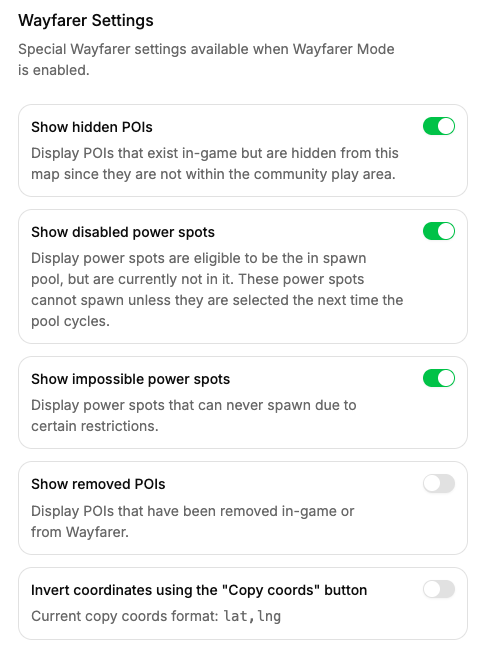
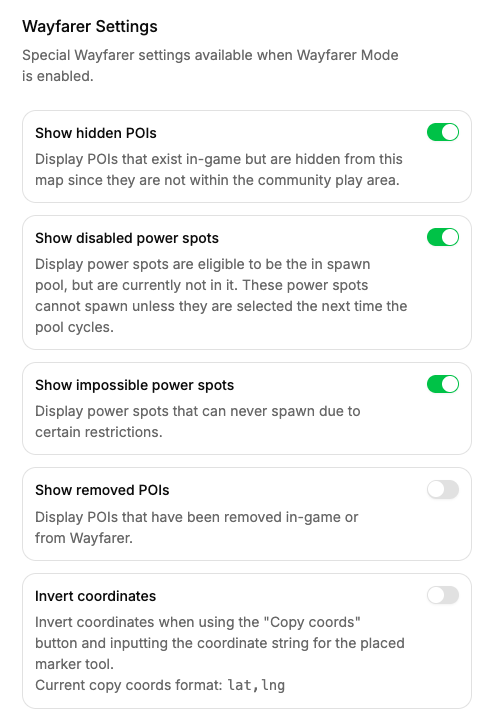
Add support for inverted coords for placed marker tool & update Wayfarer Tips doc

diff --git a/src/components/Tools/PlacedMarkerView.tsx b/src/components/Tools/PlacedMarkerView.tsx
@@ -25,16 +25,26 @@ interface FormData {
 
 /**
  * Parse the coordinate string into latitude and longitude values.
- * @param input
- * @returns
+ * @param coords Coordinate string
+ * @param invertCoords Interpret coords as inverted when true, i.e. lng,lat instead of lat,lng
+ * @returns An object containing the latitude and longitude values, or null if the input is invalid
  */
-const parseCoords = (input?: string) => {
-  if (input) {
-    const [lat, lng] = input
+const parseCoords = (coords?: string, invertCoords?: boolean) => {
+  if (coords) {
+    const vals = coords
       .trim()
       .split(",")
       .map((coord) => parseFloat(coord.trim()));
-    return { lat, lng };
+
+    if (vals.length !== 2) {
+      return null;
+    }
+
+    if (invertCoords) {
+      return { lat: vals[1], lng: vals[0] };
+    }
+
+    return { lat: vals[0], lng: vals[1] };
   }
 
   return null;
@@ -45,6 +55,7 @@ export default function PlacedMarkerView() {
   const activePopup = useStore((s) => s.activePopup);
   const addPlacedMarkerState = useStore((s) => s.addPlacedMarkerState);
   const coords = useStore((s) => s.coords);
+  const invertCoords = useStore((s) => s.invertCoords);
   const lat = useStore((s) => s.lat);
   const lng = useStore((s) => s.lng);
   const placedMarkerStates = useStore((s) => s.placedMarkerStates);
@@ -55,7 +66,7 @@ export default function PlacedMarkerView() {
 
   const removeIdQueryParam = useRemoveIdQueryParam();
   const setIdQueryParam = useSetIdQueryParam();
-  const { control, handleSubmit, setValue } = useForm<FormData>({
+  const { control, handleSubmit, register, setValue } = useForm<FormData>({
     defaultValues: {
       lat,
       lng,
@@ -128,7 +139,7 @@ export default function PlacedMarkerView() {
             </FieldLabel>
             <FieldDescription>
               Extract the latitude & longitude values from a string formatted as{" "}
-              <code>lat,lng</code>.
+              {invertCoords ? <code>lng,lat</code> : <code>lat,lng</code>}.
             </FieldDescription>
             <Input
               id="coords"
@@ -136,10 +147,9 @@ export default function PlacedMarkerView() {
               type="string"
               value={coords}
               onChange={(e) => {
-                console.log("fired", e.target.value);
                 setCoords(e.target.value);
 
-                const coordsResult = parseCoords(e.target.value);
+                const coordsResult = parseCoords(e.target.value, invertCoords);
 
                 if (coordsResult) {
                   setValue("lat", coordsResult.lat, {
@@ -170,6 +180,12 @@ export default function PlacedMarkerView() {
                   aria-invalid={invalid}
                   step="any"
                   type="number"
+                  {...register("lat", {
+                    valueAsNumber: true,
+                    validate: (value) =>
+                      Number.isFinite(value) ||
+                      "Latitude must be a valid number",
+                  })}
                   onChange={(e) => {
                     field.onChange(e);
                     setLat(parseFloat(e.target.value));
@@ -192,6 +208,12 @@ export default function PlacedMarkerView() {
                   aria-invalid={invalid}
                   step="any"
                   type="number"
+                  {...register("lng", {
+                    valueAsNumber: true,
+                    validate: (value) =>
+                      Number.isFinite(value) ||
+                      "Longitude must be a valid number",
+                  })}
                   onChange={(e) => {
                     field.onChange(e);
                     setLng(parseFloat(e.target.value));

diff --git a/src/components/SettingsView.tsx b/src/components/SettingsView.tsx
@@ -347,9 +347,12 @@ export default function SettingsView() {
                     htmlFor="invert-coords"
                     className="cursor-pointer"
                   >
-                    Invert coordinates using the "Copy coords" button
+                    Invert coordinates
                   </FieldLabel>
                   <FieldDescription className="text-pretty">
+                    Invert coordinates when using the "Copy coords" button and
+                    inputting the coordinate string for the placed marker tool.
+                    <br />
                     Current copy coords format:{" "}
                     {invertCoords ? <code>lng,lat</code> : <code>lat,lng</code>}
                   </FieldDescription>

diff --git a/src/components/hooks/store.ts b/src/components/hooks/store.ts
@@ -82,7 +82,7 @@ export interface StoreState {
   /** Disable all animations in the app when true. */
   disableAnimations: boolean;
 
-  /** Invert coordinates when copied and pasted together when true. */
+  /** Interpret coordinates as inverted when true, i.e. lng,lat instead of lat,lng. */
   invertCoords: boolean;
 
   /** Initial error message to display when the app first loads. */

diff --git a/docs/wayfarer-tips.md b/docs/wayfarer-tips.md
@@ -18,7 +18,11 @@ In the settings, you can enable **Wayfarer Mode** which gives you access to spec
 
 When enabled, the "Wayfarer Settings" section will appear in the settings screen.
 
-**We recommend enabling "Show hidden POIs" and "Show disabled power spots" to get a complete, one-to-one overview of the current map data.**
+**We recommend enabling the following to get a complete, one-to-one overview of the current map data:**
+
+- **Show hidden POIs**
+- **Show disabled power spots**
+- **Show impossible power spots**
 
 Additionally, you will gain access to the following features:
 
@@ -28,7 +32,7 @@ Additionally, you will gain access to the following features:
 - Show the no Power Spot zone for a specific POI which visualizes the 22m range in which Power Spots cannot be built around PokéStops & Gyms.
 - Show the no Community Ambassador POI zones which visualize the 30m range in which Community Campsite POIs cannot be built around other Wayfarer POIs.
 
-To demonstrate some of these features, here is what the popup looks like once Wayfarer Mode is enabled:
+To demonstrate some of these features, here is what the popup of a selected Gym looks like once Wayfarer Mode is enabled:
 
 ![Wayfarer Mode Popup](./images/wayfarer-mode-popup.png)
 
